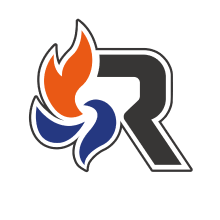
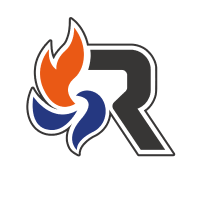
crop img

diff --git a/src/sections/PulseNova.tsx b/src/sections/PulseNova.tsx
@@ -5,11 +5,11 @@ import nova1 from "../assets/img/section/nova1.png";
 import eion1 from "../assets/img/section/eion1.png";
 
 import sponsor from "../assets/img/pulse-nova/Sponsorship.png";
-import gaming from "../assets/img/pulse-nova/Gaming Management.png";
+import gaming from "../assets/img/pulse-nova/Gaming Management-cropped.png";
 import community from "../assets/img/pulse-nova/Community Management.png";
-import talent from "../assets/img/pulse-nova/Talent Management.png";
-import pr from "../assets/img/pulse-nova/Public Relations.png";
-import video from "../assets/img/pulse-nova/video.png";
+import talent from "../assets/img/pulse-nova/Talent Management - cropped.png";
+import pr from "../assets/img/pulse-nova/Public Relations - cropped.png";
+import video from "../assets/img/pulse-nova/video - cropped.png";
 
 import { GridComponent } from "../components";
 

diff --git a/src/css/arkforge.css b/src/css/arkforge.css
@@ -40,3 +40,7 @@
     transform: translateX(-100%);
   }
 }
+
+.crop {
+  clip-path: inset(45% 15% 15% 15%);
+}
